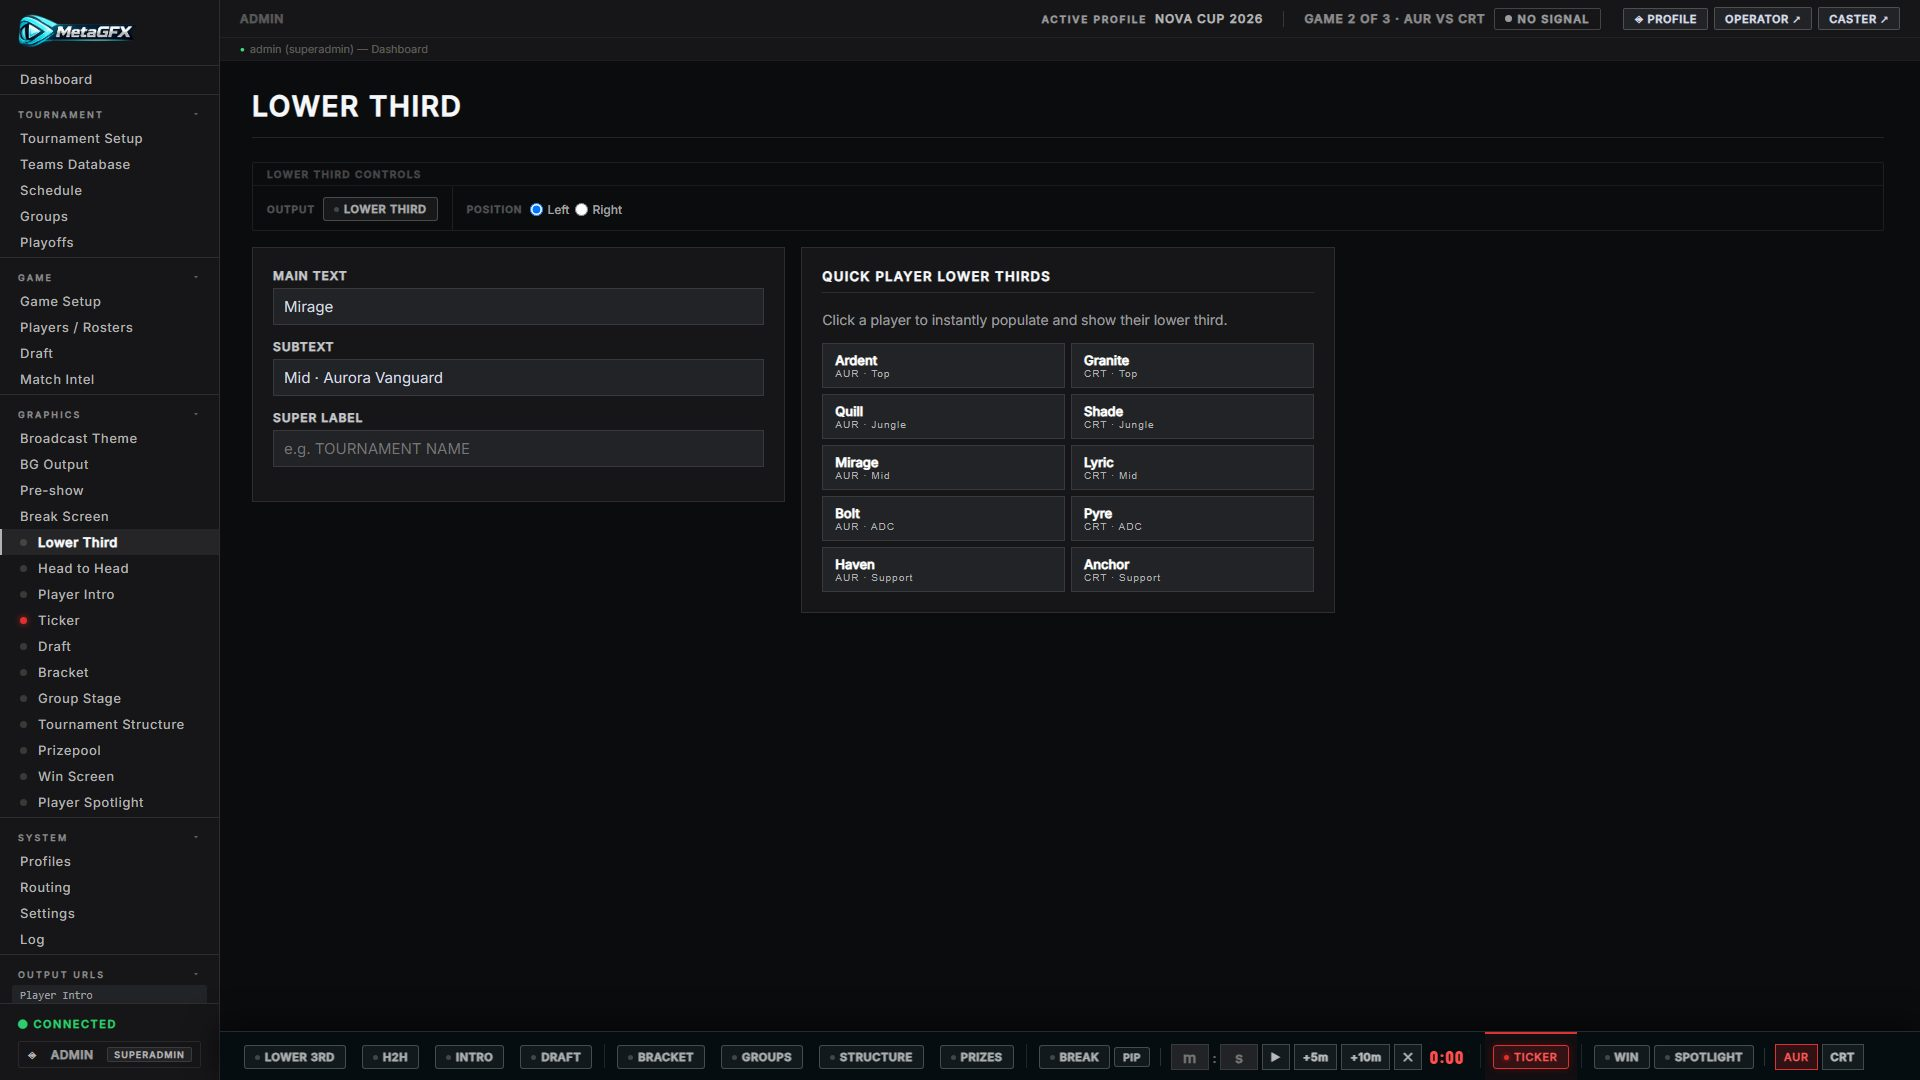
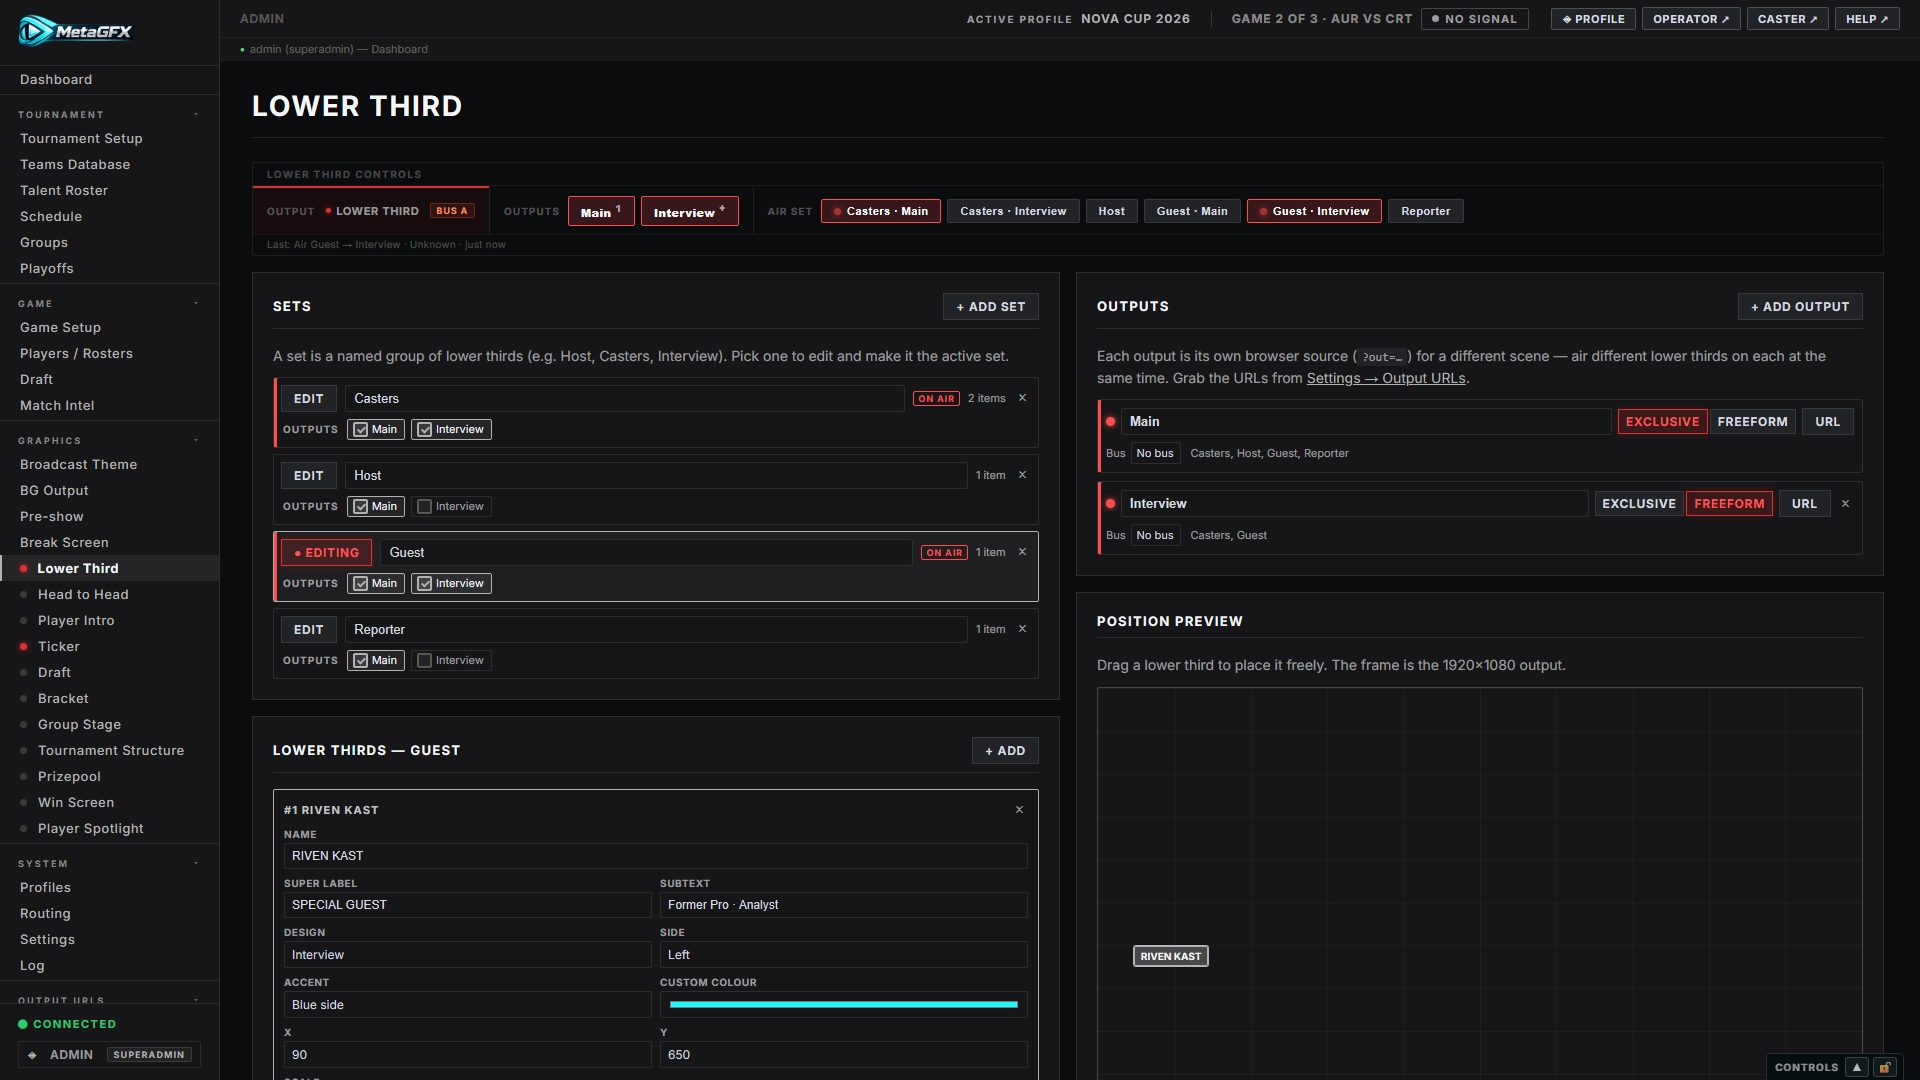
docs: rewrite Lower Third guide for the set-driven, multi-output rework
Full rewrite of docs/lower-third.md with a screenshot of every element:
item/set/output model, 4 designs, the item editor, free positioning,
outputs (exclusive/freeform) + set assignment, simultaneous multi-output
and freeform stacking, the live control surface, live bar and operator
panel. 15 new Lower Third screenshots.

Relocate shared topics to their home pages and link from the LT guide:
- Output URLs -> getting-started.md ("Adding the graphics to OBS/vMix"),
  new output-urls.jpg + a note on multi-output ?out= URLs.
- Bus routing -> gfx-bus.md; refresh the stale tool-routing.jpg (it
  predated the rework and showed a single "Lower Third" entry; now shows
  per-output "Lower Third - Main/Interview") + a "Graphics with multiple
  outputs" section.

README + docs index notes updated to reflect the richer graphic.

diff --git a/docs/lower-third.md b/docs/lower-third.md
@@ -1,23 +1,141 @@
 # Lower Third
 
-A compact name/title strip for casters, players or guests. Driven from **Graphics → Lower Third**, output at `/graphics/lower-third/`.
+Name/title strips for casters, hosts, players and guests — the most flexible graphic in MetaGFX. Rather than one hardcoded strip, the Lower Third is **set-driven and multi-output**: you build reusable **sets** of freely-positioned strips, then air them on one or more **outputs** (independent browser sources) so a solo-cam scene and a duo-desk scene can each show their own lower thirds at the same time.
 
-![Lower Third](img/lower-third.jpg)
+![Lower Third — a two-caster desk](img/lower-third.jpg)
 
-## Controls
+Output URL: `/graphics/lower-third/` for the main output, or `/graphics/lower-third/?out=<id>` for any extra output (every URL also needs `?token=XXXX`, as with all graphics).
+
+## How it fits together
+
+Three concepts, from content to air:
+
+- **Item** — a single lower third: a name, an optional super label and subtext, a [design](#designs), a side, an accent colour, free X/Y position, scale and an optional logo.
+- **Set** — a named group of items (e.g. *Casters*, *Host*, *Guest*). Airing a set brings **all** its items on at once. A two-caster desk is one set with two items.
+- **Output** — an independent browser source (a "bus for sets"). Each set is assigned to one or more outputs; each output is either **Exclusive** (one set at a time) or **Freeform** (stack several). Triggering a set animates it in/out on whichever output(s) it's assigned to.
+
+Everything below maps onto those three. All editing lives on the **Lower Third** control tab:
 
 ![Lower Third control tab](img/tool-lower-third.jpg)
 
-From the Lower Third ctrl-bar:
+## Designs
 
-- **Show / hide**.
-- **Main text** (e.g. a player handle or caster name), **subtext** (e.g. "Mid · Aurora Vanguard") and an optional **supertext** line above.
-- **Side** — anchor it bottom-left or bottom-right.
-- **Accent colour** — set per lower third (e.g. a team colour).
+Each item picks one of four designs. They share the broadcast palette and fonts, so they stay on-brand automatically.
 
-There's also a quick **player grid** in the control tab: click a player from either loaded roster to fill the lower third with their handle, role and team in one tap.
+| Design | Look | Example |
+|---|---|---|
+| **Bar** | Accent bar + angled glass box. The default; great for caster/player desks. | shown above (two-up) |
+| **Box** | Clean solid card with square corners and a soft drop shadow. | below |
+| **Underline** | Minimal — no box, just a name with an accent rule beneath. Reads over busy footage. | below |
+| **Interview** | A larger card for a call-in or solo guest. | below |
+
+**Box** — here with a logo beside the text:
+
+![Lower Third — Box design](img/lt-box.jpg)
+
+**Underline** — minimal, sits straight over the feed:
+
+![Lower Third — Underline design](img/lt-underline.jpg)
+
+**Interview** — bigger, for a single guest or call-in:
+
+![Lower Third — Interview design](img/lt-interview.jpg)
+
+## Building a set
+
+The **Sets** card (left column) lists every set. Use **+ Add Set** to create one, **Edit** to make it the set you're editing, the name field to rename it, and **×** to delete it. The badges tell you the **item count** and whether a set is **ON AIR**.
+
+![Sets card with output assignment](img/lt-sets-card.jpg)
+
+With a set selected, the **Lower Thirds** editor below it shows that set's items (**+ Add** for more). Each item exposes every field:
+
+![Item editor](img/lt-item-editor.jpg)
+
+| Field | What it does |
+|---|---|
+| **Name** | The main line (e.g. a handle or person's name). |
+| **Super label** | A small uppercase line above the name (e.g. *CASTER*, *HOST*). Optional. |
+| **Subtext** | A line below the name (e.g. *Play-by-Play* or *Mid · Aurora Vanguard*). Optional. |
+| **Design** | Bar / Box / Underline / Interview (see [Designs](#designs)). |
+| **Side** | Anchor the strip / its accent to the **Left** or **Right**. |
+| **Accent** | **Primary** (theme), **Blue side**, **Red side** or **Custom** (the colour picker). |
+| **X / Y** | Free position on the 1920×1080 frame — type values or drag (below). |
+| **Scale** | Size multiplier (0.4–2.5). |
+| **Logo** | Optional team/sponsor mark beside the text — paste a URL or **Upload**. |
+
+### Free positioning
+
+Lower thirds aren't locked to the bottom corners — place each one anywhere on the frame. Drag an item in the **Position Preview** (the frame is the full 1920×1080 output) or type exact **X/Y** values in the editor. This is what lets a single set hold, say, a caster bottom-left **and** a co-caster bottom-right (the desk in the hero shot), or a guest banner stacked above a desk.
+
+![Position preview](img/lt-position.jpg)
+
+> **Quick fill:** select an item, then click a player in **Quick Player Fill** or a person in **Talent Roster** to drop their name/role into it in one tap. Manage your saved hosts, casters and guests on the **Talent Roster** page (under *Tournament* in the control panel).
+
+## Outputs — buses for sets
+
+Each output is its own browser source for a different scene. The **Outputs** card configures them; **Main** always exists, and **+ Add Output** makes more.
+
+![Outputs card](img/lt-outputs-card.jpg)
+
+For each output you set:
+
+- **Name** — shown on the control surface and in the URL list.
+- **Mode** — **Exclusive** (airing a set replaces whatever was up — one lower third at a time) or **Freeform** (sets stack, so a guest banner and a caster desk can be up together).
+- **Bus** — optionally route the output onto a [GFX bus](gfx-bus.md) (see [Bus routing](#bus-routing)).
+- **URL** — copy this output's browser-source URL.
+
+Each output also shows which sets are assigned to it. **Assignment happens on the set**, in the Sets card: the **Outputs** checkboxes on a set's row send that set to one *or more* outputs. A set assigned to two outputs draws on both.
+
+### Multiple outputs at once
+
+This is the core of the feature: different scenes show different lower thirds **simultaneously**. With *Host* on the Main output and the caster desk on an *Interview* output:
+
+| `?out=main` (Exclusive) | `?out=interview` (Freeform) |
+|---|---|
+| ![Main output — Host](img/lt-multi-main.jpg) | ![Interview output — casters](img/lt-multi-interview.jpg) |
+
+Because the *Interview* output is **Freeform**, it can stack several sets — here a guest banner above the caster desk, all composited on one source:
+
+![Freeform output stacking two sets](img/lt-freeform.jpg)
+
+## Going live
+
+The lower third is **trigger-only** on the live surfaces (all the content/config above lives on the tab). The control surface is a flat list:
+
+![Lower Third control surface](img/lt-ctrlbar.jpg)
+
+- **LOWER THIRD** (with the red dot) is a **status label**, not a button — it lights when any output is live.
+- **Outputs** — one button per output (Exclusive marked `¹`, Freeform `⁺`). Pressing one airs/clears **everything** on that output (a freeform output airs all its sets; an exclusive output airs the first).
+- **Air Set** — one button per *(set, output)*. A set on a single output is just its name; a set on several outputs gets one button each (*Set · Output*) so you can drive each output independently. Live buttons glow red.
+
+The same buttons appear on the bottom **live bar** (expandable — drag the handle, or lock it open):
+
+![Lower Third on the live bar](img/lt-livebar.jpg)
+
+…and in the **Operator** view, alongside quick text fields and the player grid:
+
+![Lower Third in the operator view](img/lt-operator.jpg)
+
+Generic show/hide (the master button, Companion, keybinds) seeds the Main output / clears everything.
+
+### Output URLs
+
+Each output is its own browser source. The Main output is the bare `/graphics/lower-third/`; every extra output gets its own `?out=<id>` URL, all listed under **Lower Third Outputs** in **Settings → Output URLs** — see [Adding the graphics to OBS/vMix](getting-started.md#adding-the-graphics-to-obs--vmix).
+
+### Bus routing
+
+Any output can also feed a [GFX bus](gfx-bus.md) — a shared source that shows whichever assigned graphic is live. Each lower-third output appears on the **Routing** tab as its own assignable entry (*Lower Third — Main*, *Lower Third — Interview*, …), so you can mix them into buses like any other graphic. See [GFX Bus](gfx-bus.md#graphics-with-multiple-outputs).
+
+### Companion / Stream Deck & keybinds
+
+The set list is mirrored to [Bitfocus Companion](companion.md) (a **Lower Third Sets** page with per-set Air buttons and the exclusive/freeform toggle) and to per-user **keybinds** (one action per set, plus a "hide all"). Both regenerate as you add or rename sets.
+
+## Animation
+
+Entrance / exit / move easing and speed follow the shared animation tokens — tune them per-graphic from the **Animation** card on the tab, or theme-wide on the Broadcast Theme page (see [Theming](theming.md)). Each item enters from its own side and animates out independently, so clearing one set never cuts the others.
 
 ## Notes
 
-- It's a single, reusable strip — change the text and re-show it for each new name.
-- Anchored low so it clears the rest of your scene; transparent like all overlays.
+- Graphics control is manual at all times; the overlay only ever shows what you've aired.
+- Sets and output config are saved with the **profile**; nothing live persists across a profile load.
+- Every output is transparent and scales to fit its source, so bottom-anchored strips never clip.

diff --git a/docs/getting-started.md b/docs/getting-started.md
@@ -36,10 +36,16 @@ A handful of things bite people the first time. Read these once.
 
 ## Adding the graphics to OBS / vMix
 
+**Settings → Output URLs** lists a ready-made, token-bearing URL for every graphic, caster view and GFX bus. Toggle **Local / External** at the top to switch between `localhost` and your `EXTERNAL_URL` for a remote OBS.
+
+![Settings → Output URLs](img/output-urls.jpg)
+
 1. In MetaGFX, open **Settings → Output URLs** and copy the URL for the graphic you want (each already includes `?token=XXXX`).
 2. In OBS/vMix add a **Browser Source** and paste the URL.
 3. Set the source to **1920 × 1080**.
 4. Leave the background transparent — overlays are transparent by design; composite them over your scene. For a coloured/animated backdrop use the separate [BG Output](bg-output.md) source as its own layer underneath.
+
+A few graphics expose **more than one output** — e.g. the [Lower Third](lower-third.md) lists a **Main** URL plus a `?out=<id>` URL per extra output, so you can run independent lower thirds on different scenes at once.
 
 To run many graphics through a handful of shared browser sources (big RAM/VRAM saving), see [GFX Bus](gfx-bus.md).
 

diff --git a/README.md b/README.md
@@ -131,7 +131,7 @@ All graphics are browser sources for OBS/vMix at **1920×1080**, each needing `?
 | Win Screen | `/graphics/win-screen/` | 10 styles incl. 3 full-screen stingers + COMP (winning picks) |
 | Break Screen | `/graphics/break-screen/` | PIP mode supported |
 | Pre-show | `/graphics/pre-show/` | Countdown, sponsors, ticker |
-| Lower Third | `/graphics/lower-third/` | |
+| Lower Third | `/graphics/lower-third/` | Set-driven, multi-output: 4 designs, free X/Y positioning, exclusive/freeform per-scene outputs |
 | Bracket | `/graphics/bracket/` | Single + double elimination |
 | Group Stage | `/graphics/group-stage/` | |
 | Tournament Structure | `/graphics/tournament-structure/` | |
@@ -154,6 +154,7 @@ The full guide lives in [`docs/`](docs/README.md) — start there for the comple
 
 **Systems & integrations**
 - [Player Spotlight](docs/player-spotlight.md)
+- [Lower Third](docs/lower-third.md) (set-driven, multi-output)
 - [Live Switcher (OBS/vMix on-air detection)](docs/live-switcher.md)
 - [Bitfocus Companion / Stream Deck](docs/companion.md)
 - [Theming &amp; Looks](docs/theming.md)

diff --git a/docs/gfx-bus.md b/docs/gfx-bus.md
@@ -21,6 +21,10 @@ Without buses you'd add ~14 browser sources to OBS (one per overlay), each runni
 2. In OBS/vMix, add one Browser Source per bus pointing at its `/bus/<id>?token=XXXX` URL (grab them from **Settings → Output URLs**, which lists the bus URLs alongside the graphics).
 3. Arrange the bus sources in your scene; from then on, just Show/Hide graphics as normal.
 
+## Graphics with multiple outputs
+
+Most graphics are a single assignable entry. A few expose **more than one output** — notably the [Lower Third](lower-third.md), which can drive several independent browser sources. Each of those outputs appears in Routing as its **own entry** (*Lower Third — Main*, *Lower Third — Interview*, …), so you can route each onto a different bus (or leave some direct). Assigning and clearing work exactly as for any other graphic; the bus simply follows whichever of that output's sets is live.
+
 ## Notes
 
 - Group graphics that are never on screen at the same time onto the same bus; put things that *do* overlap (e.g. a lower third over a bracket) on different buses.

diff --git a/docs/README.md b/docs/README.md
@@ -27,7 +27,7 @@ Every graphic is a browser source for OBS/vMix at 1920×1080. Each page below co
 | [Win Screen](win-screen.md) | Match/series result, stingers and the COMP winning-picks screen. |
 | [Break Screen](break-screen.md) | "Back soon" / PIP break card. |
 | [Pre-show](pre-show.md) | Countdown, sponsors and ticker. |
-| [Lower Third](lower-third.md) | Name/title lower thirds. |
+| [Lower Third](lower-third.md) | Set-driven name/title strips — 4 designs, free positioning, per-scene outputs and bus routing. |
 | [Bracket](bracket.md) | Single/double-elimination bracket. |
 | [Group Stage](group-stage.md) | Group standings overlay. |
 | [Tournament Structure](tournament-structure.md) | Format/structure overview overlay. |
